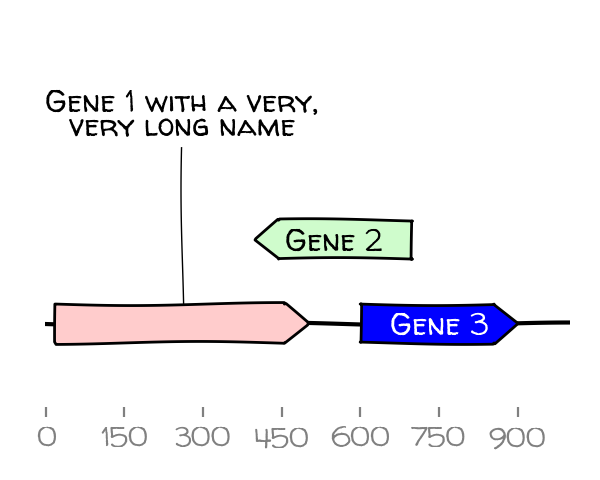
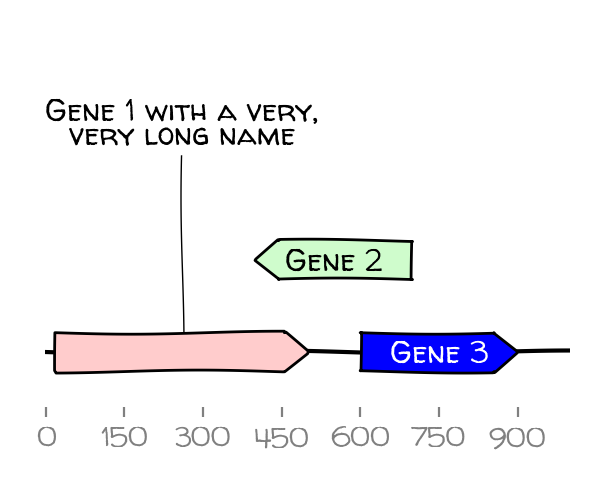
v2.4 - New feature multiline_plot. New examples and tests

Changed region(s): [[0.06, 0.4688, 0.96, 0.7812], [0.06, 0.1875, 0.54, 0.3438], [0.42, 0.4375, 0.69, 0.5938]]

diff --git a/dna_features_viewer/GraphicRecord/MatplotlibPlottableMixin.py b/dna_features_viewer/GraphicRecord/MatplotlibPlottableMixin.py
@@ -93,7 +93,7 @@ class MatplotlibPlottableMixin:
             ymax = features_ymax + annotations_ymax
         else:
             ymax = max(features_ymax, annotations_ymax) + 1
-        ymin = -1
+        ymin = min(ax.get_ylim()[0], -0.5)
 
         # ymax could be even bigger if a "ideal_yspan" has been set.
         if (ideal_yspan is not None) and not (auto_figure_height):
@@ -341,6 +341,7 @@ class MatplotlibPlottableMixin:
         elevate_outline_annotations="default",
         x_lim=None,
         figure_height=None,
+        sequence_parameters=None,
     ):
         """Plot all the features in the same Matplotlib ax
 
@@ -386,6 +387,9 @@ class MatplotlibPlottableMixin:
 
         x_lim
           Horizontal axis limits to be set at the end.
+        
+        sequence_parameters
+          parameters for plot_sequence
         """
 
         if elevate_outline_annotations == "default":
@@ -480,7 +484,7 @@ class MatplotlibPlottableMixin:
         # every annotation above its respective feature, but some annotations
         # can be below some features).
         if elevate_outline_annotations:
-            
+
             base_feature = GraphicFeature(
                 start=-self.sequence_length,
                 end=self.sequence_length,
@@ -504,7 +508,9 @@ class MatplotlibPlottableMixin:
 
         max_annotations_level = max([0] + list(annotations_levels.values()))
         annotation_height = self.determine_annotation_height(max_level)
-        annotation_height = max(self.min_y_height_of_text_line, annotation_height)
+        annotation_height = max(
+            self.min_y_height_of_text_line, annotation_height
+        )
         labels_data = {}
         for feature, level in annotations_levels.items():
             if "is_base" in feature.data:
@@ -532,7 +538,7 @@ class MatplotlibPlottableMixin:
             )
 
         if plot_sequence:
-            self.plot_sequence(ax)
+            self.plot_sequence(ax, **(sequence_parameters or {}))
 
         self.finalize_ax(
             ax=ax,
@@ -609,6 +615,8 @@ class MatplotlibPlottableMixin:
                     facecolor=background[i % 2],
                 )
         ymin = ax.get_ylim()[0]
+        if ymin < -500:
+            ymin = 0
         ax.set_ylim(bottom=min(ymin, -y_offset * self.feature_level_height))
 
     def plot_translation(
@@ -722,6 +730,77 @@ class MatplotlibPlottableMixin:
             features_parameters[text] = parameters
             handles.append(Patch(**parameters))
         ax.legend(handles=handles, **legend_kwargs)
+
+    def plot_on_multiple_lines(
+        self, n_lines=None, nucl_per_line=None, figure_width=9, **plot_params
+    ):
+        """Plothe features on different lines (one Matplotlib ax per line)
+
+        Parameters
+        ----------
+
+        n_lines
+          Number of lines on which the record will be plotted. A number of
+          nucleotides can be provided instead (see below).
+        
+        nucl_per_line
+          Number of nucleotides to be represented on every line (determines
+          the number of lines ``n_lines``).
+
+        figure_width
+          Width of the figure (only if no ax was provided and a new figure is
+          created) in inches.
+
+        **plot_params
+          Parameters from ``graphic_record.plot()`` to be used in the plotting
+          of the individual lines. This includes ``draw_line``, ``with_ruler``,
+          ``annotate_inline``, ``plot_sequence``,
+          ``evelate_outline_annotations``, ``strand_in_label_pixel_threshold``
+        
+        Returns
+        -------
+
+        figure, axes
+          The matplotlib figure and axes generated.
+        """
+
+        if n_lines is None:
+            n_lines = int(numpy.ceil(self.sequence_length / nucl_per_line))
+        else:
+            nucl_per_line = self.sequence_length // n_lines + 1
+
+        figures_heights = []
+
+        def plot_line(line_index, ax=None):
+            first, last = self.first_index, self.last_index
+            line_start = first + line_index * nucl_per_line
+            line_virtual_stop = first + (line_index + 1) * nucl_per_line
+            line_stop = min(last, line_virtual_stop)
+            line_self = self.crop((line_start, line_stop))
+            line_ax, _ = line_self.plot(
+                figure_width=figure_width,
+                x_lim=(line_start, line_virtual_stop),
+                ax=ax,
+                **plot_params
+            )
+            return line_ax
+
+        for line_index in range(n_lines):
+            line_ax = plot_line(line_index)
+            figures_heights.append(line_ax.figure.get_figheight())
+            plt.close(line_ax.figure)
+
+        fig, axes = plt.subplots(
+            n_lines,
+            1,
+            gridspec_kw={"height_ratios": figures_heights},
+            figsize=(figure_width, 0.9 * sum(figures_heights)),
+        )
+        for line_index, ax in enumerate(axes):
+            plot_line(line_index, ax=ax)
+        fig.tight_layout()
+        fig.subplots_adjust(hspace=0)
+        return fig, axes
 
 
 def change_luminosity(

diff --git a/dna_features_viewer/GraphicRecord/GraphicRecord.py b/dna_features_viewer/GraphicRecord/GraphicRecord.py
@@ -62,13 +62,12 @@ class GraphicRecord(MatplotlibPlottableMixin, BokehPlottableMixin):
         given at ``graphic_record.plot(...)`` time. Set to true to have all
         text annotations appears above all features, or false else.
     """
-    
+
     default_font_family = None
-    default_ruler_color = 'grey'
-    default_box_color = 'auto'
+    default_ruler_color = "grey"
+    default_box_color = "auto"
     min_y_height_of_text_line = 0.5
 
-    
     def __init__(
         self,
         sequence_length=None,
@@ -90,9 +89,13 @@ class GraphicRecord(MatplotlibPlottableMixin, BokehPlottableMixin):
         self.labels_spacing = labels_spacing
 
     @property
+    def last_index(self):
+        return self.first_index + self.sequence_length
+
+    @property
     def span(self):
         """Return the display span (start, end) accounting for first_index."""
-        return self.first_index, self.first_index + self.sequence_length
+        return self.first_index, self.last_index
 
     def to_biopython_record(self, sequence):
         """
@@ -118,8 +121,9 @@ class GraphicRecord(MatplotlibPlottableMixin, BokehPlottableMixin):
         return SeqRecord(seq=sequence, features=features)
 
     def crop(self, window):
-        s, e = window
-        if (s < 0) or (e > self.sequence_length):
+        start, end = window
+        first_index = self.first_index
+        if (start < first_index) or (end > self.last_index):
             raise ValueError("out-of-bound cropping")
         new_features = []
         for f in self.features:
@@ -128,17 +132,21 @@ class GraphicRecord(MatplotlibPlottableMixin, BokehPlottableMixin):
                 new_features.append(cropped_feature)
 
         return GraphicRecord(
-            sequence=self.sequence[s:e] if self.sequence is not None else None,
-            sequence_length=e - s,
+            sequence=self.sequence[start - first_index : end - first_index]
+            if self.sequence is not None
+            else None,
+            sequence_length=end - start,
             features=new_features,
             feature_level_height=self.feature_level_height,
-            first_index=self.first_index + s,
+            first_index=start,
+            plots_indexing=self.plots_indexing,
+            labels_spacing=self.labels_spacing,
         )
 
     def determine_annotation_height(self, levels):
         """By default the ideal annotation level height is the same as the
         feature_level_height."""
-        # TODO: Improve me! ideally, annotation width would be linked to the 
+        # TODO: Improve me! ideally, annotation width would be linked to the
         # height of one line of text, so dependent on font size and ax
         # height/span.
         return self.feature_level_height
@@ -177,7 +185,7 @@ class GraphicRecord(MatplotlibPlottableMixin, BokehPlottableMixin):
         if len(label) > max_line_length:
             label = find_narrowest_text_wrap(label, max_line_length)
         return label
-    
+
     def compute_padding(self, ax):
         ax_width = ax.get_window_extent(ax.figure.canvas.get_renderer()).width
         xmin, xmax = ax.get_xlim()

diff --git a/tests/test_basics.py b/tests/test_basics.py
@@ -22,6 +22,7 @@ matplotlib.use("Agg")
 example_genbank = os.path.join("tests", "data", "example_sequence.gb")
 example_gff = os.path.join("tests", "data", "example_record.gff")
 
+
 def test_by_hand(tmpdir):
     """Test building a GraphicRecord "by hand" """
     features = [
@@ -250,7 +251,41 @@ def test_BlackBoxlessLabelTranslator(tmpdir):
     target_file = os.path.join(str(tmpdir), "from_genbank.png")
     ax.figure.savefig(target_file)
 
+
 def test_gff():
     translator = BlackBoxlessLabelTranslator()
     graphic_record = translator.translate_record(example_gff)
     assert len(graphic_record.features) == 3
+
+
+def test_multiline_plot():
+
+    translator = BiopythonTranslator()
+    graphic_record = translator.translate_record(example_genbank)
+    subrecord = graphic_record.crop((1700, 2200))
+    fig, axes = subrecord.plot_on_multiple_lines(
+        nucl_per_line=100,
+        figure_width=12,
+        plot_sequence=True,
+        sequence_parameters={"background": None},
+    )
+    assert 9.5 < fig.get_figheight() < 10
+
+
+def test_legend():
+    class CustomTranslator(BiopythonTranslator):
+        def compute_feature_legend_text(self, feature):
+            return feature.type
+
+        def compute_feature_color(self, feature):
+            return {
+                "CDS": "#ffd383",
+                "promoter": "red",
+                "restriction_site": "#fbf3f6",
+                "terminator": "#d1e9f1",
+            }[feature.type]
+
+    translator = CustomTranslator()
+    graphic_record = translator.translate_record(example_genbank)
+    ax, _ = graphic_record.plot()
+    graphic_record.plot_legend(ax=ax)

diff --git a/dna_features_viewer/BiopythonTranslator/BiopythonTranslator.py b/dna_features_viewer/BiopythonTranslator/BiopythonTranslator.py
@@ -46,7 +46,15 @@ class BiopythonTranslator(BiopythonTranslatorBase):
 
     default_feature_color = "#7245dc"
     ignored_features_types = ()
-    label_fields = ["label", "source", "locus_tag", "note", "gene", "product"]
+    label_fields = [
+        "label",
+        "name",
+        "gene",
+        "product",
+        "source",
+        "locus_tag",
+        "note",
+    ]
 
     def __init__(self, features_filters=(), features_properties=None):
         self.features_filters = features_filters
@@ -113,7 +121,7 @@ class BiopythonTranslator(BiopythonTranslatorBase):
     def compute_feature_linewidth(self, feature):
         """Compute the edge width of the feature's arrow/rectangle."""
         return 1.0
-    
+
     def compute_feature_legend_text(self, feature):
         return None
 

diff --git a/examples/multiline_plot.py b/examples/multiline_plot.py
@@ -1,0 +1,14 @@
+"""In this example we plot a record fragment with sequence over multiple lines.
+"""
+from dna_features_viewer import BiopythonTranslator
+
+translator = BiopythonTranslator()
+graphic_record = translator.translate_record("./example_sequence.gb")
+subrecord = graphic_record.crop((1700, 2200))
+fig, axes = subrecord.plot_on_multiple_lines(
+    nucl_per_line=100,
+    figure_width=12,
+    plot_sequence=True,
+    sequence_parameters={"background": None},
+)
+fig.savefig('multiline_plot.png')

diff --git a/examples/overview_and_detail.py b/examples/overview_and_detail.py
@@ -27,10 +27,10 @@ ax1.fill_between((zoom_start, zoom_end), +1000, -1000, alpha=0.15)
 
 # PLOT THE SEQUENCE DETAILS
 
-cropped_record.plot(ax=ax2)
-cropped_record.plot_sequence(ax=ax2)
+
 cropped_record.plot_translation(ax=ax2, location=(408, 423),
                                 fontdict={'weight': 'bold'})
+cropped_record.plot(ax=ax2, plot_sequence=True)
 ax2.set_title("Sequence detail", loc='left', weight='bold')
 
 fig.savefig('overview_and_detail.png', bbox_inches='tight')

diff --git a/examples/example_with_inverted_x_axis.py b/examples/example_with_inverted_x_axis.py
@@ -1,0 +1,10 @@
+"""This example shows how you can very easily flip a plot horizontally if you
+need, using Matplotlib's ax.set_xlim() method."""
+
+from dna_features_viewer import BiopythonTranslator, load_record
+
+ax = BiopythonTranslator.quick_class_plot("example_sequence.gb")
+x1, x2 = ax.get_xlim()
+ax.set_xlim(x2, x1)
+ax.figure.tight_layout()
+ax.figure.savefig("example_with_inverted_x_axis.png")

diff --git a/dna_features_viewer/version.py b/dna_features_viewer/version.py
@@ -1,1 +1,1 @@
-__version__ = "2.3.1"
+__version__ = "2.4"
